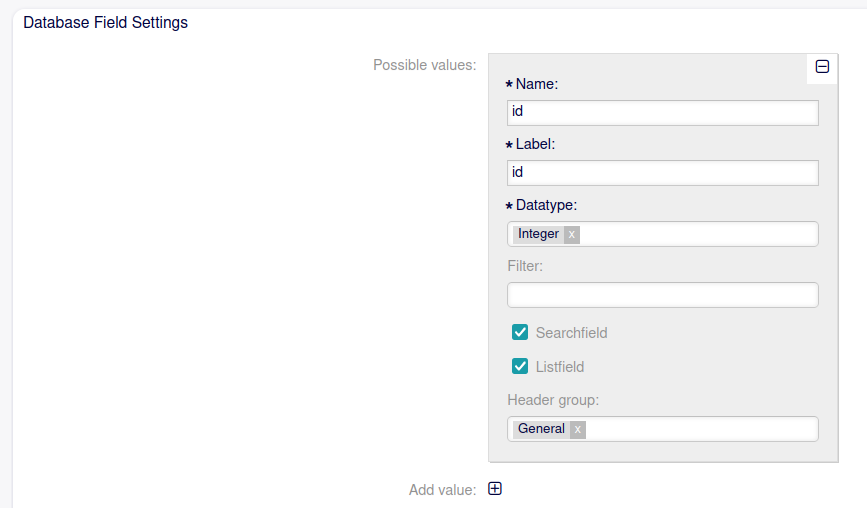
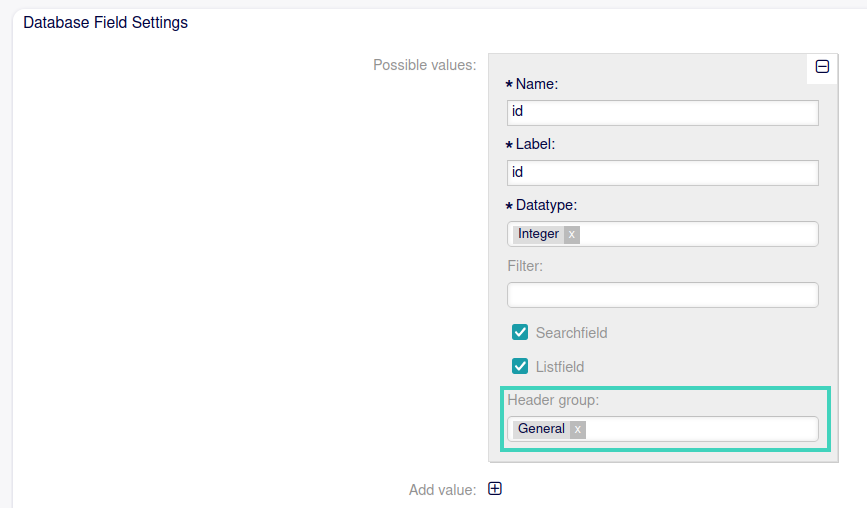
Updated documentation.

Changed region(s): [[0.5606, 0.7382, 0.9654, 0.9154]]

diff --git a/doc/content/index.rst b/doc/content/index.rst
@@ -29,7 +29,7 @@ Usage
 After installation and activating the system configuration, a dropdown is added to the possible values elements in the AdminDynamicFieldDB screen (see picture 2). There you can choose a header under which the possible value should be layouted. An example layout of the TicketInformation widget in AgentTicketZoom is shown in picture 1.
 
 .. figure:: screenshot_01.png
-   :scale: 30%
+   :scale: 35%
    :alt: The sreenshot shows the newly available header dropdown in AdminDynamicFieldDB.
 
    The screenshot shows the newly available header dropdown in AdminDynamicFieldDB.
